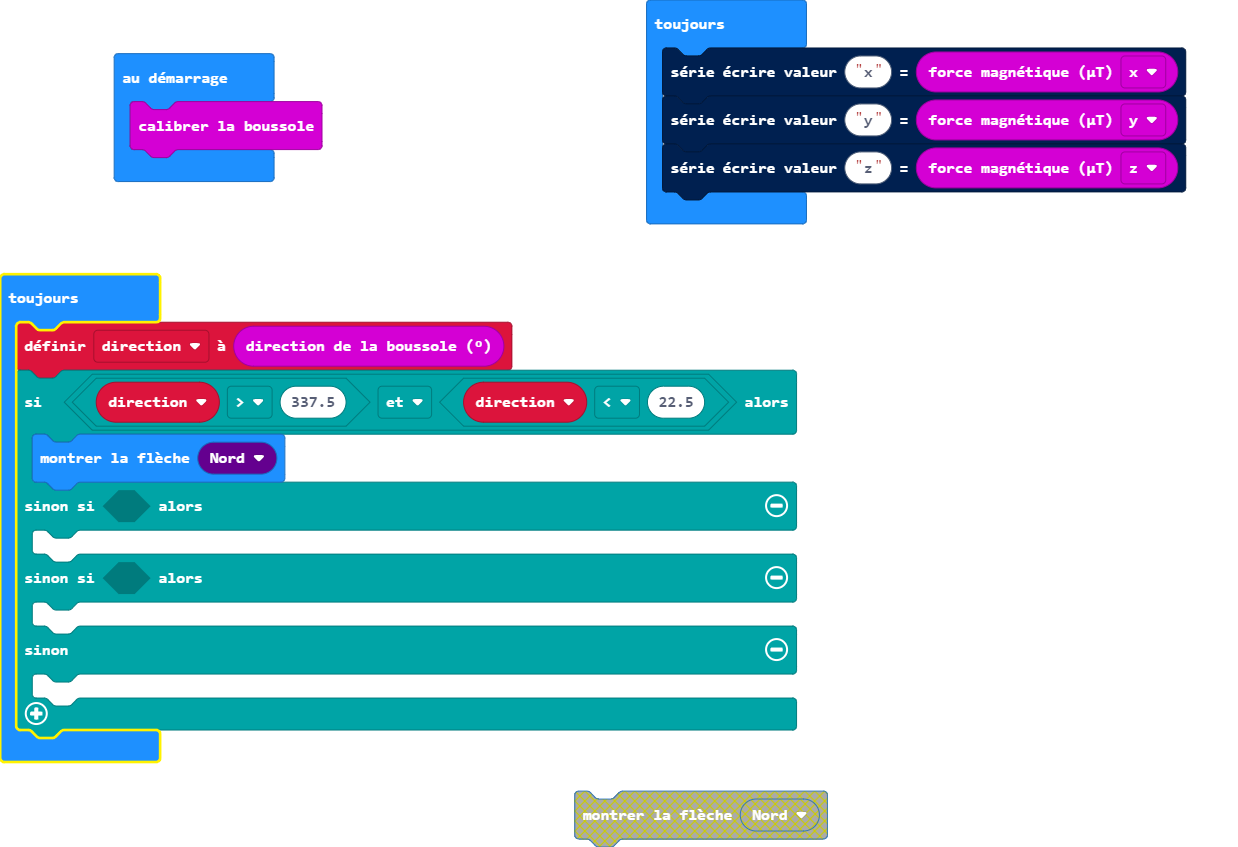
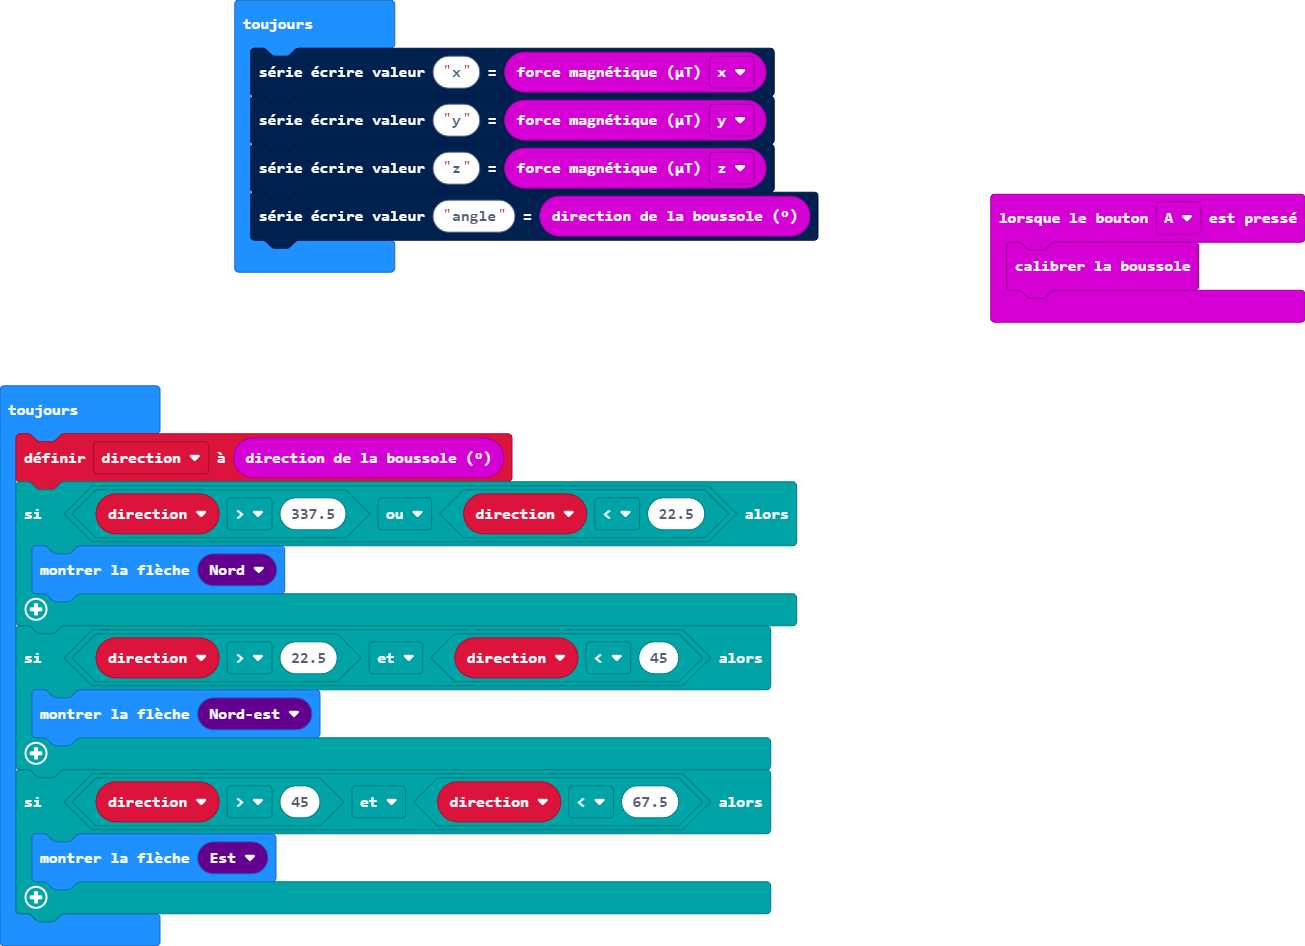
Mise à jour pxt.json, main.blocks, main.ts, main.py

diff --git a/main.ts b/main.ts
@@ -1,19 +1,46 @@
 let direction = 0
-input.calibrateCompass()
-basic.forever(function () {
+input.onButtonPressed(Button.A, function on_button_pressed_a() {
+    input.calibrateCompass()
+})
+basic.forever(function on_forever() {
     serial.writeValue("x", input.magneticForce(Dimension.X))
     serial.writeValue("y", input.magneticForce(Dimension.Y))
     serial.writeValue("z", input.magneticForce(Dimension.Z))
+    serial.writeValue("angle", input.compassHeading())
 })
-basic.forever(function () {
+basic.forever(function on_forever2() {
+    
     direction = input.compassHeading()
-    if (direction > 337.5 && direction < 22.5) {
+    if (direction > 337.5 || direction <= 22.5) {
         basic.showArrow(ArrowNames.North)
-    } else if (false) {
-    	
-    } else if (false) {
-    	
-    } else {
-    	
     }
+    
+    if (direction > 22.5 && direction <= 67.5) {
+        basic.showArrow(ArrowNames.NorthEast)
+    }
+    
+    if (direction > 67.5 && direction <= 112.5) {
+        basic.showArrow(ArrowNames.East)
+    }
+    
+    if (direction > 112.5 && direction <= 157.5) {
+        basic.showArrow(ArrowNames.SouthEast)
+    }
+    
+    if (direction > 157.5 && direction <= 202.5) {
+        basic.showArrow(ArrowNames.South)
+    }
+    
+    if (direction > 202.5 && direction <= 247.5) {
+        basic.showArrow(ArrowNames.SouthWest)
+    }
+    
+    if (direction > 247.5 && direction <= 292.5) {
+        basic.showArrow(ArrowNames.West)
+    }
+    
+    if (direction > 292.5 && direction <= 337.5) {
+        basic.showArrow(ArrowNames.NorthWest)
+    }
+    
 })

diff --git a/main.py b/main.py
@@ -1,7 +1,33 @@
-serial.write_value("x", input.magnetic_force(Dimension.X))
-serial.write_value("y", input.magnetic_force(Dimension.Y))
-serial.write_value("z", input.magnetic_force(Dimension.Z))
+direction = 0
+
+def on_button_pressed_a():
+    input.calibrate_compass()
+input.on_button_pressed(Button.A, on_button_pressed_a)
 
 def on_forever():
-    input.calibrate_compass()
+    serial.write_value("x", input.magnetic_force(Dimension.X))
+    serial.write_value("y", input.magnetic_force(Dimension.Y))
+    serial.write_value("z", input.magnetic_force(Dimension.Z))
+    serial.write_value("angle", input.compass_heading())
 basic.forever(on_forever)
+
+def on_forever2():
+    global direction
+    direction = input.compass_heading()
+    if direction > 337.5 or direction <= 22.5:
+        basic.show_arrow(ArrowNames.NORTH)
+    if direction > 22.5 and direction <= 67.5:
+        basic.show_arrow(ArrowNames.NORTH_EAST)
+    if direction > 67.5 and direction <= 112.5:
+        basic.show_arrow(ArrowNames.EAST)
+    if direction > 112.5 and direction <= 157.5:
+        basic.show_arrow(ArrowNames.SOUTH_EAST)
+    if direction > 157.5 and direction <= 202.5:
+        basic.show_arrow(ArrowNames.SOUTH)
+    if direction > 202.5 and direction <= 247.5:
+        basic.show_arrow(ArrowNames.SOUTH_WEST)
+    if direction > 247.5 and direction <= 292.5:
+        basic.show_arrow(ArrowNames.WEST)
+    if direction > 292.5 and direction <= 337.5:
+        basic.show_arrow(ArrowNames.NORTH_WEST)
+basic.forever(on_forever2)
